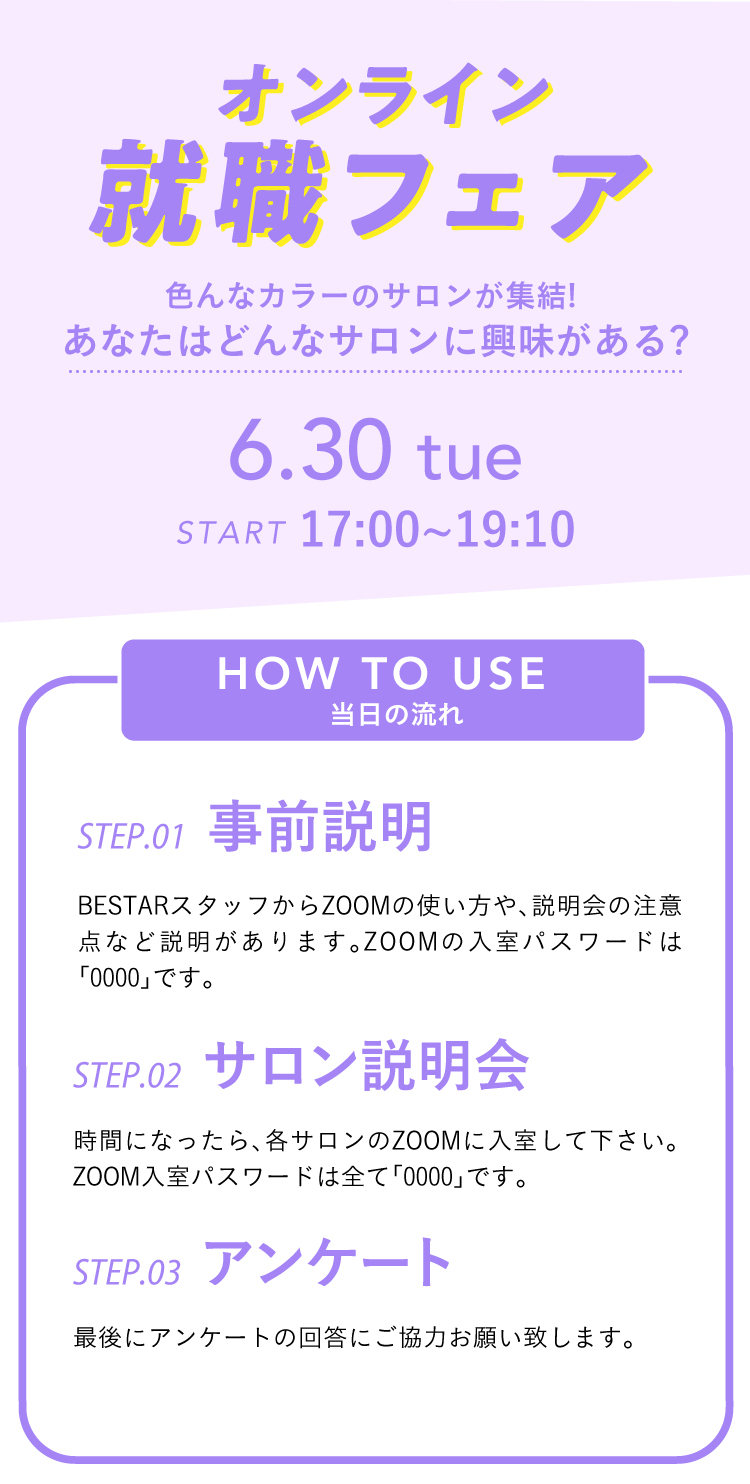
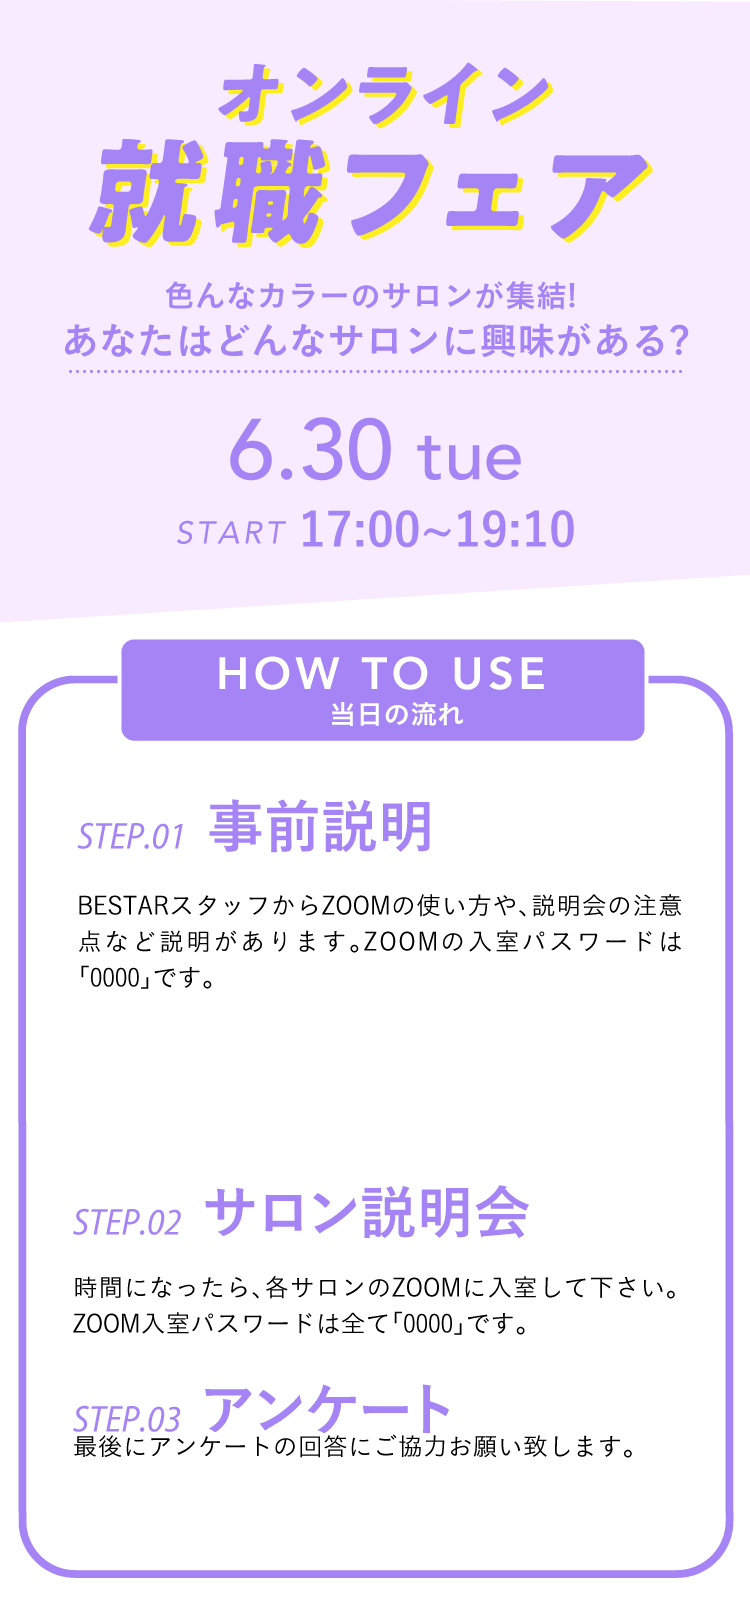
added a button

Changed region(s): [[0.0, 0.031, 0.9813, 0.6819], [0.092, 0.6819, 0.828, 0.9299], [0.7973, 0.7439, 0.8587, 0.7749]]

diff --git a/index.html b/index.html
@@ -31,7 +31,12 @@
 			</header>
 			<div class="mainview">
                 <div class="description_part">
-                    <img class="online_guidence" src="./images/title.jpg" alt="title">
+					<img class="online_guidence" src="./images/title.jpg" alt="title">
+					<div class="login">
+						<a href="https://zoom.us/j/4634138043?pwd=dktqR29jVGdrMmYvZHZYYUpCd0FwZz09">
+							<img src="./images/login.jpg" alt="login">
+						</a>
+					</div>
                     <a href="https://aura-mico.jp/qr-codes/5982/preview">
                         <img class="event" src="./images/event1.jpg" alt="event1">
                     </a>

diff --git a/css/index.css b/css/index.css
@@ -7,8 +7,19 @@ img {
     width: 100%;
 }
 
+.description_part {
+    position: relative;
+}
+
 .title {
     width: 100%;
+}
+
+.login {
+    position: absolute;
+    width: 85%;
+    top: 56.5%;
+    left: 9%;
 }
 
 .online_guidence {
